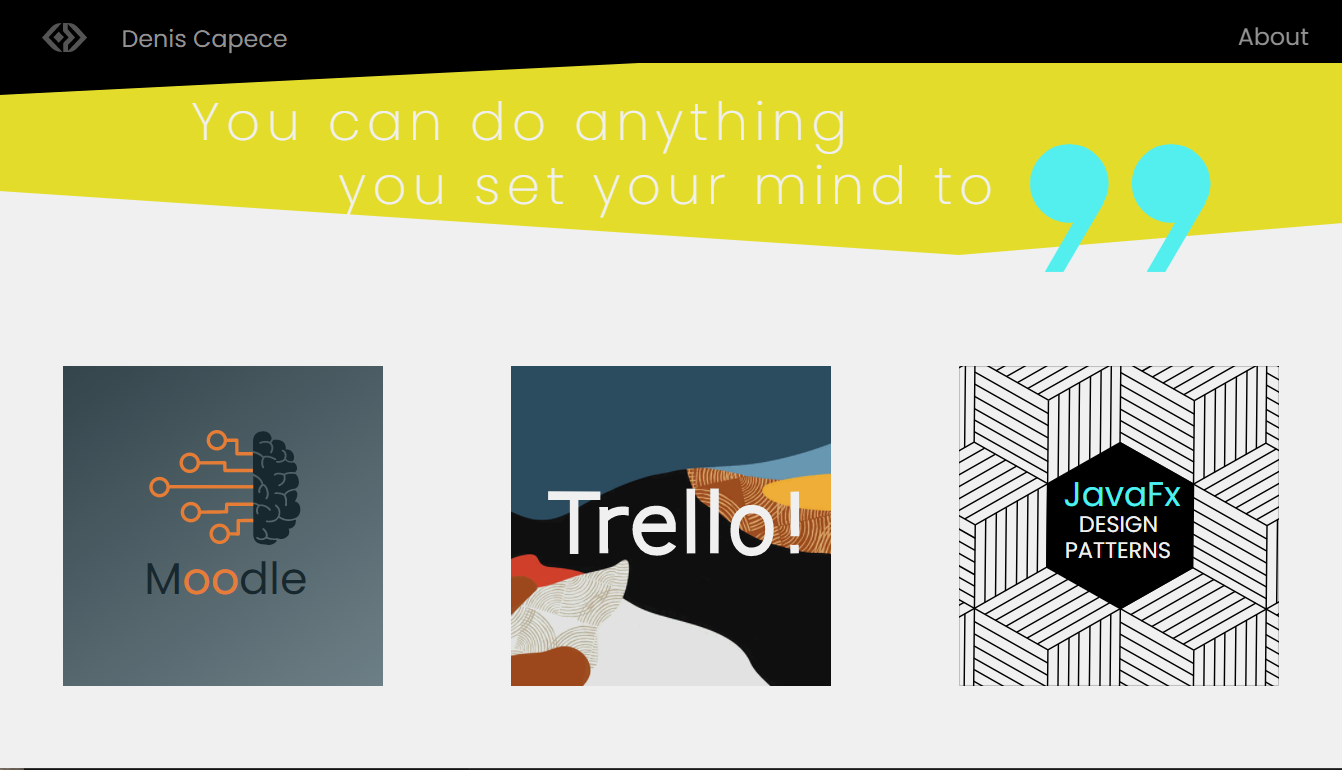
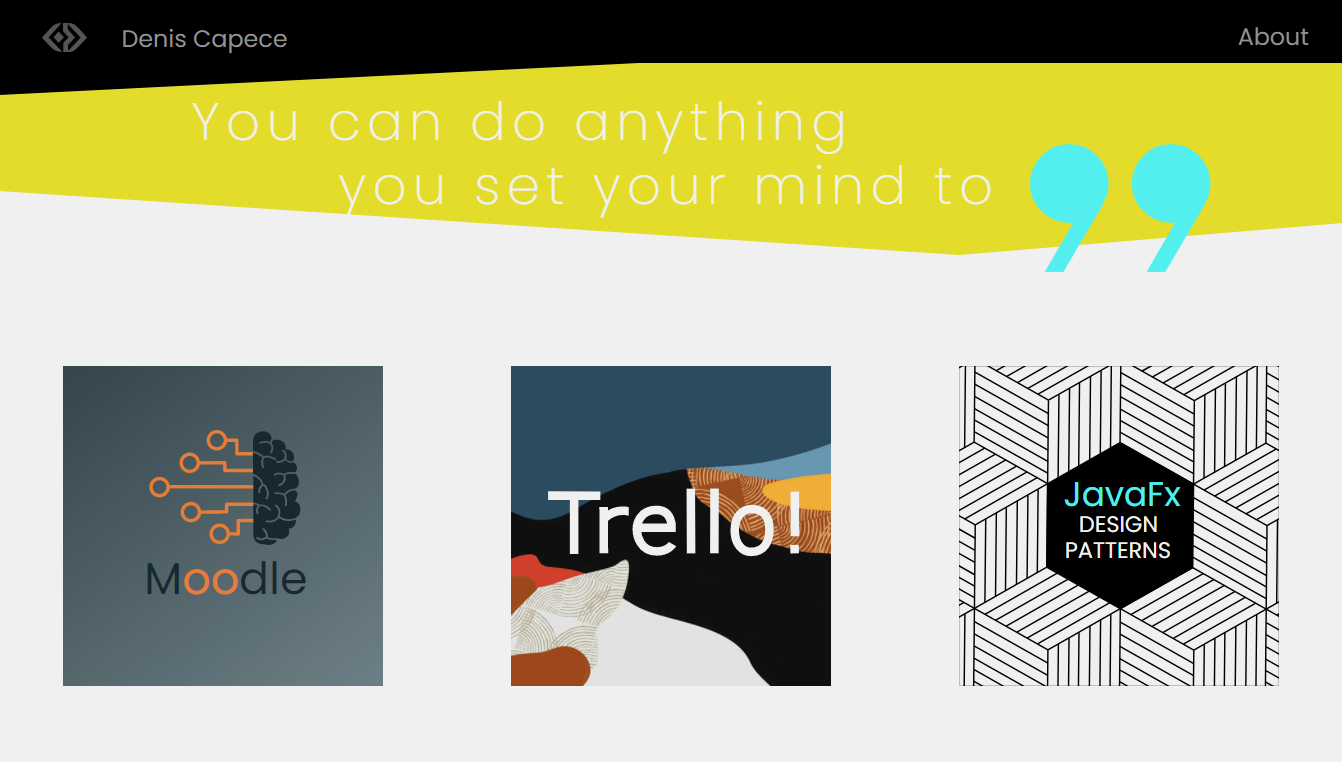
style hero-section

diff --git a/static/styles/styles.css b/static/styles/styles.css
@@ -177,7 +177,7 @@ img {
   ========================*/
 
 .hero-section {
-    height: 40vh;
+    height: 25vw;
     display: flex;
     align-items: center;
     background-color: var(--color-sub);
@@ -203,6 +203,9 @@ img {
 }
 
 @media screen and (max-width: 800px) {
+    .hero-section{
+        height: 30vw;
+    }
     .hero-section__box>h2,
     .hero-section__box>h2>span {
         font-size: 3rem;
@@ -250,6 +253,9 @@ img {
 }
 
 @media screen and (max-width: 700px) {
+    .hero-section{
+        height: 40vh;
+    } 
     .hero-section__search>.form {
         display: flex;
         flex-direction: column;
